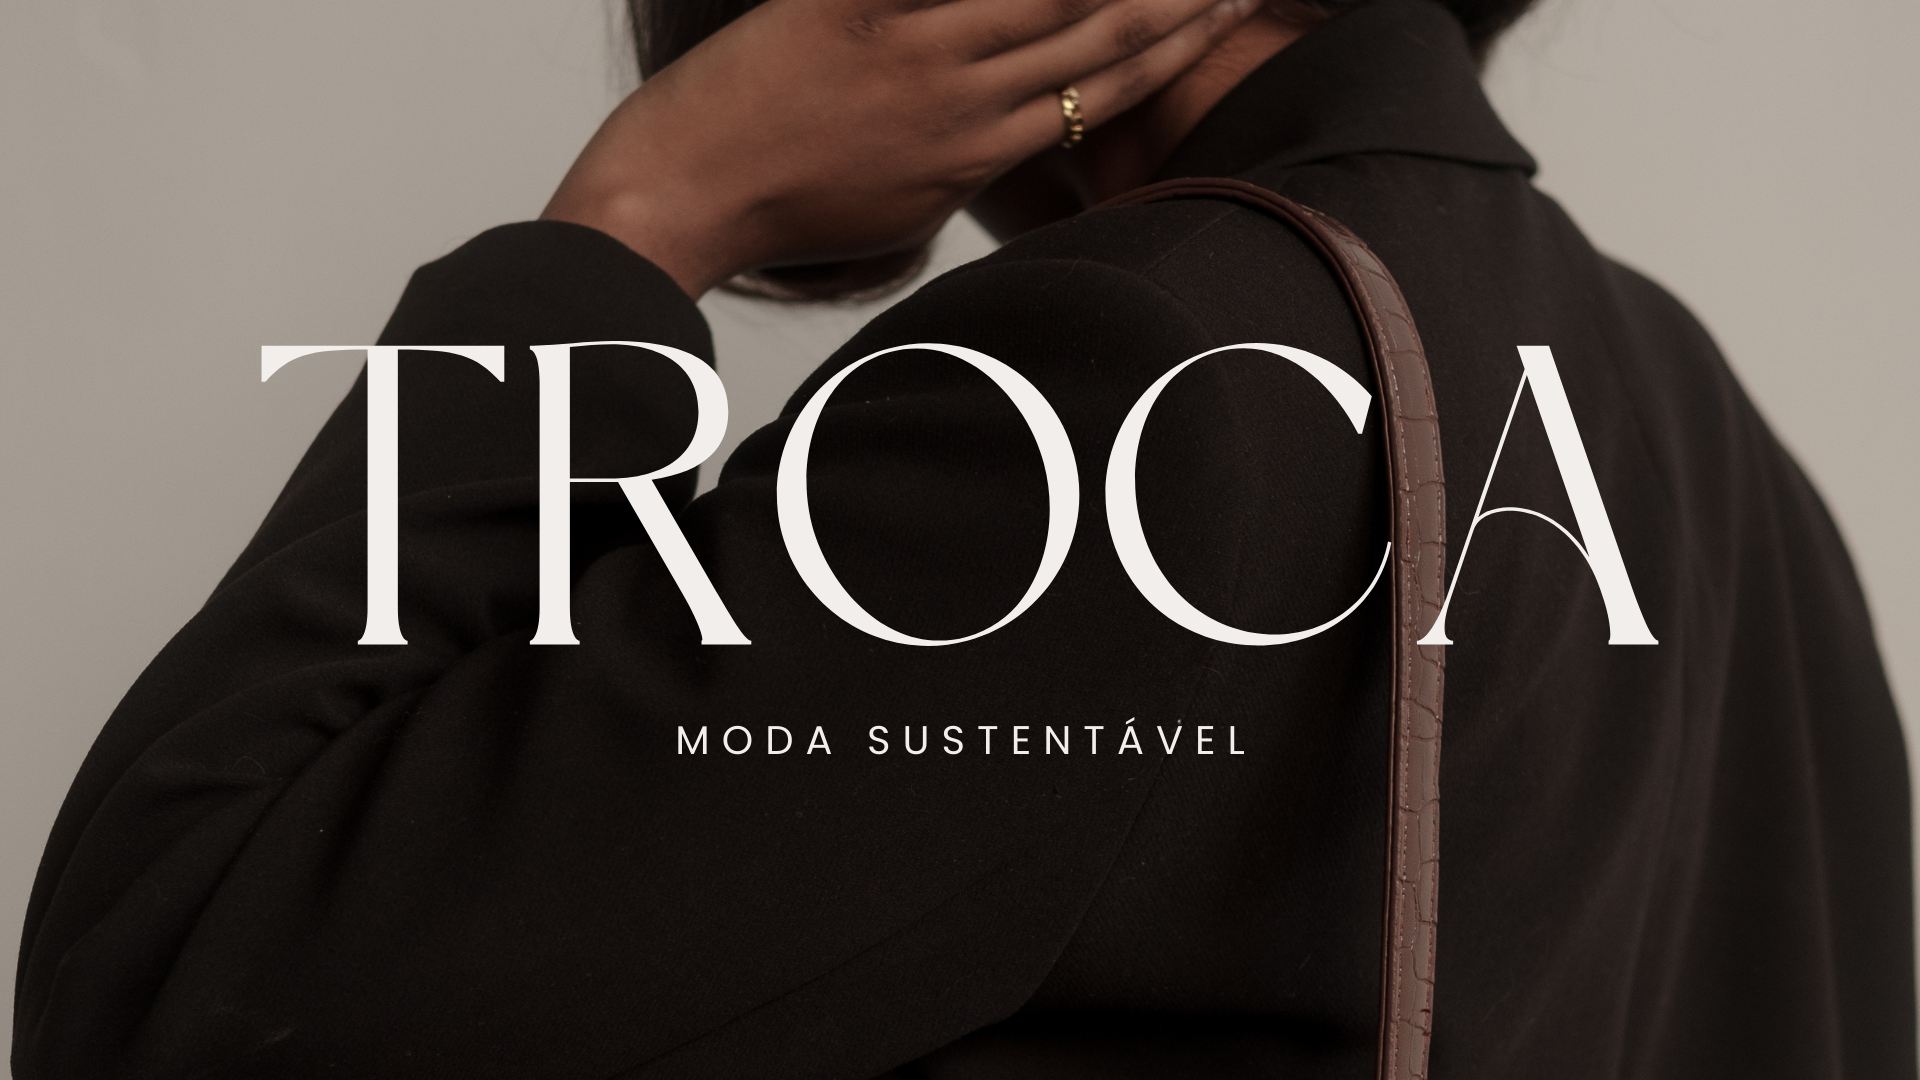
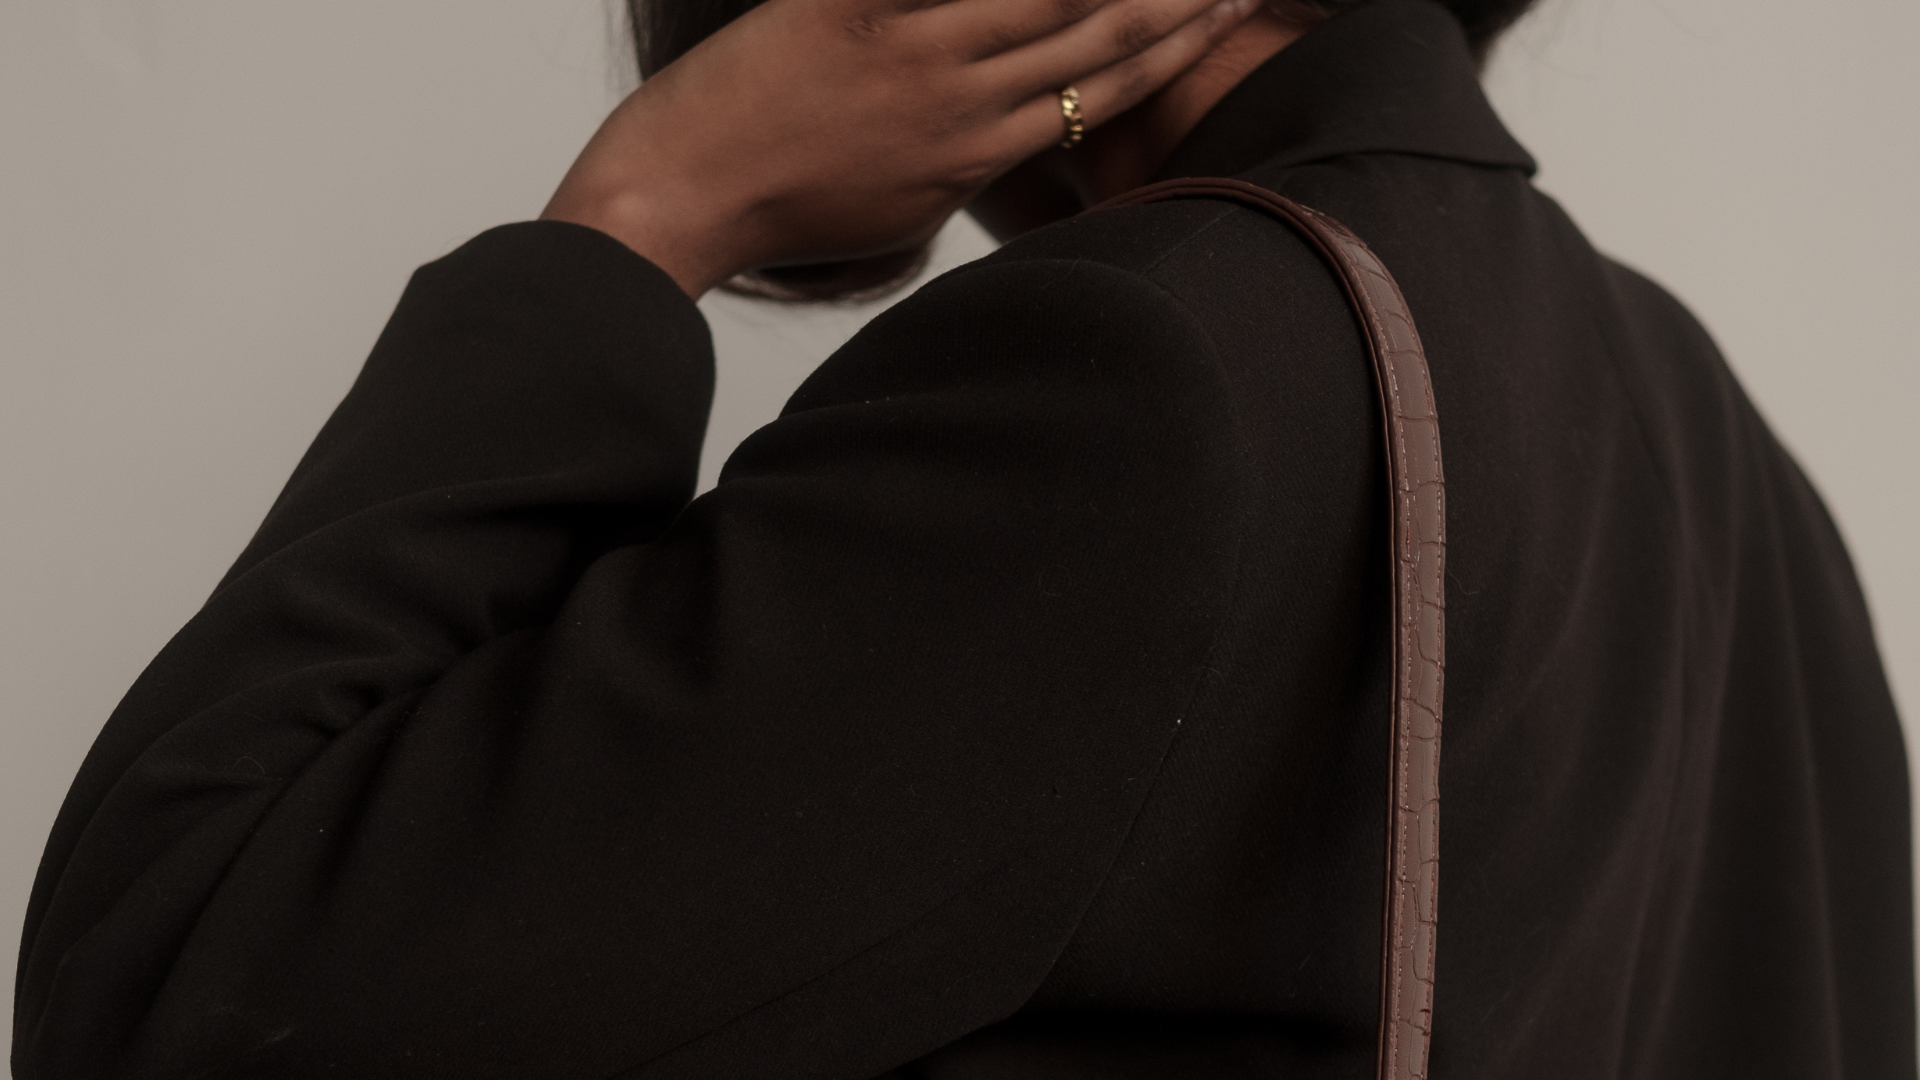
atualização

diff --git a/index.html b/index.html
@@ -4,16 +4,16 @@
 <head>
     <meta charset="UTF-8">
     <meta name="viewport" content="width=device-width, initial-scale=1.0">
-    <title>Troquei</title>
+    <title>Troquei - Moda Sustentável</title>
     <link rel="stylesheet" href="style.css">
 </head>
 
 <body>
-    <header>
-        <img src="img/home.png" alt="Imagem de fundo">
+    <!-- Header com imagem de fundo e navegação -->
+    <header id="inicio">
         <nav>
             <ul>
-                <li><a href="#home">Início</a></li>
+                <li><a href="#inicio">Início</a></li>
                 <li><a href="#sobre">Sobre</a></li>
                 <li><a href="#doacoes">Doações</a></li>
                 <li><a href="#trocas">Trocas</a></li>
@@ -21,135 +21,72 @@
             </ul>
         </nav>
     </header>
-    <br>
 
-    <main>
+    <!-- Seção Home (Imagem de fundo com texto sobreposto) -->
+    <section class="home">
+        <div class="text-container">
+            <h1>TROCA</h1>
+            <p>MODA SUSTENTÁVEL</p>
+        </div>
+    </section>
 
-
-
-        
-        <img id="sobre" src="img/sobre.png" alt="">
-    </main>
-
-
-    <!--
-        1. Plataforma de Moda Sustentável
-        Descrição: Desenvolver uma plataforma onde as usuárias possam trocar, vender ou doar roupas de segunda mão, 
-        com foco na moda sustentável. O sistema pode permitir que as usuárias filtrem por tamanho, estilo, condição e tipo de peça.
-
-        Tecnologias:
-        - Frontend: HTML, CSS, JavaScript
-        - Backend: Python (Flask ou Django)
-        - Banco de Dados: SQL (MySQL ou PostgreSQL)
-
-        Funcionalidades:
-        1. Cadastro de roupas (fotografias, descrição, tamanho)
-        2. Filtro de pesquisa por categoria, tamanho, cor e condição
-        3. Sistema de trocas e doações
-        4. Notificações para novas ofertas ou trocas
-        5. Sistema de feedback de usuários
-        -->
-
-    <!-- Comentários detalhados sobre as funcionalidades -->
-
-    <!-- 1. Criação de Perfil de Usuário com Preferências de Estilo -->
-    <!--
-        Funcionalidade: Permitir que cada usuário crie um perfil onde possa informar suas preferências de estilo, tamanhos, cores favoritas, tipo de tecido preferido, etc.
-        Como Funciona:
-        - O sistema sugere itens que correspondem ao estilo e às preferências de cada usuário.
-        - O usuário pode definir se está interessado em comprar, vender ou trocar roupas.
-        - O perfil pode incluir informações sobre como o usuário se compromete com a moda sustentável.
-        -->
-
-    <!-- 2. Ranking de Sustentabilidade e Pontuação Verde -->
-    <!--
-        Funcionalidade: Criar um sistema de pontuação para as usuárias, onde elas ganham "pontos verdes" cada vez que participam de ações sustentáveis, como vender roupas usadas, doar peças, ou até mesmo realizar compras responsáveis (ex: roupas de tecidos recicláveis ou orgânicos).
-        Como Funciona:
-        - Usuários ganham pontos ao fazer trocas ou compras sustentáveis.
-        - As pontuações podem ser convertidas em benefícios, como descontos em futuras compras ou destaque na plataforma (ex: "Usuária mais verde da semana").
-        - A pontuação pode ser visível no perfil do usuário.
-        -->
-
-    <!-- 3. Modo de "Desapego Rápido" -->
-    <!--
-        Funcionalidade: Oferecer uma funcionalidade para "desapegar rápido" de roupas, onde o usuário pode cadastrar rapidamente itens para venda ou doação com descrições mínimas e fotografias simples.
-        Como Funciona:
-        - O usuário preenche um formulário rápido com o nome da peça, condição e categoria (ex: vestido, blusa, calça, etc.).
-        - A plataforma ajuda a definir o preço (se for para venda) ou marca como "doação".
-        - As roupas cadastradas ficam visíveis em uma seção específica, com um filtro de "desapego rápido" para facilitar a busca.
-        -->
-
-    <!-- 4. Sistema de "Troca de Roupas" com Agendamento -->
-    <!--
-        Funcionalidade: Implementar um sistema de trocas de roupas entre os usuários, permitindo que eles negociem e agendem encontros (físicos ou virtuais) para realizar as trocas.
-        Como Funciona:
-        - Usuários podem visualizar o inventário de roupas de outras pessoas e propor trocas.
-        - O sistema permite agendar uma troca, seja online (envio de roupa via correios) ou pessoalmente (com coordenadas de pontos de encontro ou eventos de troca organizados pela plataforma).
-        - Durante a troca, as roupas são avaliadas e as partes podem trocar feedbacks.
-        -->
-
-    <!-- 5. Eventos e Encontros de Troca de Roupas -->
-    <!--
-        Funcionalidade: Organizar eventos de troca de roupas, onde usuários podem se reunir (virtual ou presencialmente) para trocar peças de roupas de forma organizada.
-        Como Funciona:
-        - Criar uma agenda de eventos mensais, onde os usuários podem se inscrever para participar de trocas de roupas, workshops sobre moda sustentável, ou palestras.
-        - Incluir funcionalidades de "Inscreva-se para o Evento", com lembretes para as usuárias.
-        - Em caso de eventos presenciais, a plataforma pode sugerir locais com base na localização do usuário.
-        -->
-
-    <!-- 6. Sistema de Avaliação e Feedback Detalhado -->
-    <!--
-        Funcionalidade: Criar um sistema de feedback detalhado, onde as usuárias podem avaliar não apenas a roupa recebida, mas também a experiência de troca, venda ou doação.
-        Como Funciona:
-        - Cada transação de troca, compra ou doação gera uma avaliação do vendedor ou do doador, com notas sobre a qualidade da roupa, a precisão da descrição e o tempo de entrega.
-        - Comentários podem ser deixados para fornecer mais detalhes sobre a experiência.
-        - O sistema de avaliação pode ser integrado com o "Ranking Verde", promovendo a boa conduta nas trocas.
-        -->
-
-    <!-- 7. Integração com Redes Sociais -->
-    <!--
-        Funcionalidade: Permitir que os usuários compartilhem suas compras, trocas ou doações nas redes sociais, promovendo a moda sustentável.
-        Como Funciona:
-        - Os usuários podem publicar suas experiências ou as roupas que encontraram na plataforma diretamente em suas redes sociais (Instagram, Facebook, etc.).
-        - O sistema pode gerar postagens personalizadas, com imagens de roupas e um link para a plataforma, incentivando amigos a entrarem no movimento de moda sustentável.
-        -->
-
-    <!-- 8. Sugestões Personalizadas Baseadas em Tendências Sustentáveis -->
-    <!--
-        Funcionalidade: Utilizar algoritmos para sugerir roupas sustentáveis baseadas em tendências de moda e no estilo pessoal do usuário.
-        Como Funciona:
-        - O sistema pode recomendar peças de roupas com base no que a usuária já possui ou já comprou.
-        - As recomendações são baseadas em critérios de sustentabilidade, como o uso de materiais reciclados, orgânicos ou de baixo impacto ambiental.
-        - As sugestões podem incluir roupas de segunda mão, mas também podem destacar marcas sustentáveis disponíveis para compra.
-        -->
-
-    <!-- 9. Campanhas de Doação e Conscientização -->
-    <!--
-        Funcionalidade: Criar campanhas de doação, onde as usuárias são incentivadas a doar roupas para causas específicas (ex: ajudar mulheres em situação de vulnerabilidade, arrecadar peças para ONGs, etc.).
-        Como Funciona:
-        - O sistema pode criar campanhas com objetivos específicos (ex: "Doe 5 roupas e ganhe pontos verdes").
-        - As usuárias podem visualizar quais causas estão ativas e como suas doações serão usadas.
-        - Incluir integrações com organizações sem fins lucrativos para facilitar o envio das doações.
-        -->
-
-    <!-- 10. Dicas e Artigos sobre Moda Sustentável -->
-    <!--
-        Funcionalidade: Incluir uma seção de blog ou dicas sobre moda sustentável, reciclagem de roupas, como cuidar da sua roupa para que dure mais tempo, e como identificar peças de qualidade.
-        Como Funciona:
-        - Posts semanais ou mensais com dicas práticas de como se engajar na moda sustentável, como customizar roupas antigas, etc.
-        - Entrevistas com especialistas ou influenciadoras no ramo da moda sustentável.
-        - Como fazer compras mais conscientes e como reutilizar peças.
-        -->
-
-    <!-- 11. Sistema de Leilões de Roupas Vintage -->
-    <!--
-        Funcionalidade: Criar um sistema de leilão onde os usuários podem colocar peças de roupas vintage ou raras para venda, promovendo o "valor de coleção" e a ideia de reaproveitamento.
-        Como Funciona:
-        - Itens raros ou vintage podem ser colocados em leilão, e os usuários podem dar lances.
-        - O sistema envia notificações quando um leilão está prestes a terminar ou quando uma peça de interesse entra no leilão.
-        - O leilão pode ser realizado com prazos limitados para criar uma sensação de urgência.
-        -->
-
-</body>
-
+  <!-- Seção Sobre -->
+<main>
+    <section id="sobre">
+        <div class="text-container">
+            <h1>TROCA</h1>
+            <p>Somos uma marca dedicada à customização de roupas, promovendo a moda sustentável e incentivando o consumo consciente.</p>
+        </div>
+    </section>
+</main>
 </html>
+
+
+
+<!-- 1. Plataforma de Customização e Upcycling de Roupas:
+Objetivo da Plataforma:
+
+A ideia é criar um mercado digital para a customização e upcycling de roupas, permitindo que os usuários transformem suas roupas antigas em peças exclusivas, sem a necessidade de comprar roupas novas. Essa plataforma proporciona uma experiência pessoal e criativa para quem deseja dar uma nova vida aos seus itens, promovendo a moda circular e a sustentabilidade.
+
+Como Funciona:
+
+Envio da Roupas:
+O usuário começa acessando a plataforma, onde ele pode enviar suas roupas através de um formulário simples, inserindo detalhes sobre a peça (como tamanho, tipo de roupa, tecido e estado atual). O sistema pode até permitir o envio de fotos para facilitar a descrição da peça.
+
+Escolha da Customização:
+Após o envio da peça, o usuário escolhe o tipo de customização ou upcycling desejado. Aqui estão algumas opções:
+
+Transformação Completa: Como transformar uma calça velha em uma saia, ou uma camiseta em uma bolsa.
+
+Adição de Detalhes: Adicionar patches, bordados, tintura ou estampas exclusivas.
+
+Ajustes e Reparos: Fazer ajustes para melhorar o caimento (ex: diminuir ou aumentar o comprimento, adicionar detalhes como franjas ou rendas).
+
+Roupas de Estilo Personalizado: O usuário pode optar por criar um design completamente novo, baseado nas peças enviadas.
+
+Consultoria Criativa:
+Para ajudar o cliente a tomar decisões, a plataforma pode oferecer consultoria de designers. O cliente pode enviar uma descrição e o designer, com base em seu estilo e preferências, sugerir ideias e opções de customização. Isso poderia ser feito por chat, e-mail ou até videochamadas, permitindo um toque mais pessoal.
+
+Criação e Customização:
+Após o cliente aprovar o design ou a ideia proposta, a peça será enviada para um designer ou estilista especializado. Eles irão transformar a peça de acordo com as especificações do cliente.
+
+Recebimento da Peça Customizada:
+O usuário recebe a peça transformada em sua casa, pronta para ser usada novamente. O processo de customização também pode incluir embalagens sustentáveis, para reforçar o compromisso com o meio ambiente.
+
+Funcionalidades Adicionais:
+
+Loja de Designers: A plataforma pode contar com um marketplace onde designers especializados em upcycling e customização oferecem seus serviços para outros usuários. Esses designers podem exibir seus portfólios, e os usuários podem escolher o que melhor se adapta ao seu estilo.
+
+Comunidade Criativa: A plataforma pode ter uma área de blog ou fórum onde os usuários compartilham seus projetos de upcycling, trocam ideias, postam antes e depois das peças customizadas e discutem tendências de moda sustentável.
+
+Desafios e Concursos: Para incentivar a participação ativa, a plataforma pode lançar desafios mensais de customização. Por exemplo, um concurso de customização de camisetas onde os usuários enviam suas criações, e o vencedor recebe prêmios, como créditos na plataforma ou produtos sustentáveis.
+
+Por que é Sustentável?
+
+Reduz o desperdício: Ao dar uma nova vida às roupas existentes, evita-se que muitas delas sejam descartadas em aterros sanitários, onde demoram anos para se decompor.
+
+Redução da necessidade de novas produções: Não há necessidade de fabricar novas peças, o que reduz o consumo de recursos naturais e a emissão de gases de efeito estufa na cadeia de produção.
+
+Apoio a práticas éticas: A plataforma pode promover o uso de materiais reciclados, orgânicos ou de baixo impacto ambiental, além de apoiar pequenos designers e empresas locais.
+
+Moderno e Personalizado: O upcycling também cria uma moda mais personalizada e única, com menos impacto ambiental, além de ser uma maneira de cultivar um estilo próprio. -->

diff --git a/style.css b/style.css
@@ -1,72 +1,118 @@
-/* configurações gerais do body */
-body { 
-    background-color: rgb(244, 228, 228); /* cor de fundo */
-    margin: 0; /* remove a margem padrão */
-    padding: 0; /* remove o padding padrão */
-    font-family: Arial, Helvetica, sans-serif; /* define a fonte */
+/* Resetando margens e padding */
+* {
+    margin: 0;
+    padding: 0;
+    box-sizing: border-box;
 }
 
-/* estilo do header */
+body {
+    font-family: Arial, Helvetica, sans-serif; /* Fonte do corpo */
+    line-height: 1.6;
+    color: #333; /* Cor do texto */
+}
+
+/* Estilo do header */
 header {
     position: relative;
     padding: 0;
     margin: 0;
 }
 
-header img {
-    width: 100%;  
-    height: 100vh;
-    object-fit: cover; /* faz a imagem cobrir toda a área sem distorção */
-    margin-top: 0; /* remove a margem superior */
-    padding-top: 0; /* remove o padding superior */
-}
 
-/* estilizando o nav */
-nav { 
-    position: fixed; 
+/* Navegação */
+nav {
+    position: fixed;
     top: 0;
-    left: 0; /* garante que o nav se alinhe à esquerda */
-    width: 100%; 
-    z-index: 10; /* coloca o nav acima de outros elementos */
-    background-color: rgba(0, 0, 0, 0.5); /* fundo semi-transparente */
-    padding-top: 10px; /* ajusta o espaçamento superior do nav */
+    left: 0;
+    width: 100%;
+    z-index: 10; /* Coloca a navegação acima de outros elementos */
+    background-color: rgba(0, 0, 0, 0.5); /* Fundo semi-transparente */
+    padding-top: 10px; /* Ajusta o espaçamento superior do nav */
 }
 
-/* lista de navegação */
 nav ul {
-    list-style: none; /* remove os marcadores da lista */
+    list-style: none;
     margin: 0;
     padding: 0;
-    display: flex; /* coloca os itens lado a lado */
-    justify-content: center; /* centraliza os itens horizontalmente */
+    display: flex;
+    justify-content: center;
 }
 
-/* itens da lista */
 nav ul li {
-    margin: 0 20px; /* espaçamento entre os itens */
+    margin: 0 20px; /* Espaçamento entre os itens */
 }
 
-/* estilizando os links */
 nav ul li a {
-    text-decoration: none; /* remove o sublinhado */
-    color: white; /* cor do texto */
-    font-size: 18px; /* tamanho da fonte */
-    font-weight: bold; /* deixa a fonte em negrito */
-    padding: 10px 15px; /* espaçamento interno dos links */
-    display: block; /* faz o link ocupar a área inteira do item */
-    transition: background-color 0.3s ease; /* efeito suave de transição para o hover */
+    text-decoration: none;
+    color: white;
+    font-size: 18px;
+    font-weight: bold;
+    padding: 10px 15px;
+    display: block;
+    transition: background-color 0.3s ease;
 }
 
-/* efeito hover nos links */
 nav ul li a:hover {
-    background-color: rgba(255, 255, 255, 0.2); /* cor de fundo ao passar o mouse */
-    border-radius: 5px; /* bordas arredondadas */
+    background-color: rgba(255, 255, 255, 0.2); /* Efeito hover */
+    border-radius: 5px; /* Bordas arredondadas */
 }
 
-.sobre {
-    width: 100%;  
-    height: 100vh;
-    object-fit: cover; /* faz a imagem cobrir toda a área sem distorção */
-    margin-top: 0; /* remove a margem superior */
-    padding-top: 0; /* remove o padding superior */
+/* Seção Home (Imagem de fundo com texto centralizado) */
+.home {
+    height: 100vh; /* Ocupa a altura total da tela */
+    background-image: url('img/home.png');
+    background-size: cover;
+    background-position: center;
+    position: relative;
+    display: flex;
+    justify-content: center;
+    align-items: center;
+}
+
+.text-container {
+    text-align: center;
+    color: white;
+}
+
+.text-container h1 {
+    font-family: 'Playfair Display', serif;
+    font-size: 100px;
+    font-weight: bold;
+    text-transform: uppercase;
+}
+
+.text-container p {
+    font-size: 20px;
+    font-weight: lighter;
+    text-transform: uppercase;
+}
+
+/* Estilo para a seção sobre */
+#sobre {
+    height: 100vh; /* Ocupa a altura total da tela */
+    background-image: url('img/sobre2.png'); /* Caminho para a imagem de fundo */
+    background-size: cover; /* A imagem ocupa toda a seção */
+    background-position: center; /* A imagem fica centralizada */
+    display: flex;
+    justify-content: center; /* Centraliza o conteúdo horizontalmente */
+    align-items: center; /* Centraliza o conteúdo verticalmente */
+    position: relative; /* Permite que o texto seja posicionado sobre a imagem */
+}
+
+#sobre .text-container {
+    background-color: rgba(107, 77, 62, 0.63); /* Fundo branco translúcido */
+    padding: 35px;
+    max-width: 600px;
+    text-align: center;
+}
+
+#sobre .text-container h1 {
+    font-family: 'Playfair Display', serif; /* Fonte elegante */
+    font-size: 100px;
+    font-weight: bold;
+}
+
+#sobre .text-container p {
+    font-size: 18px;
+    color: #c1c1c1;
 }
